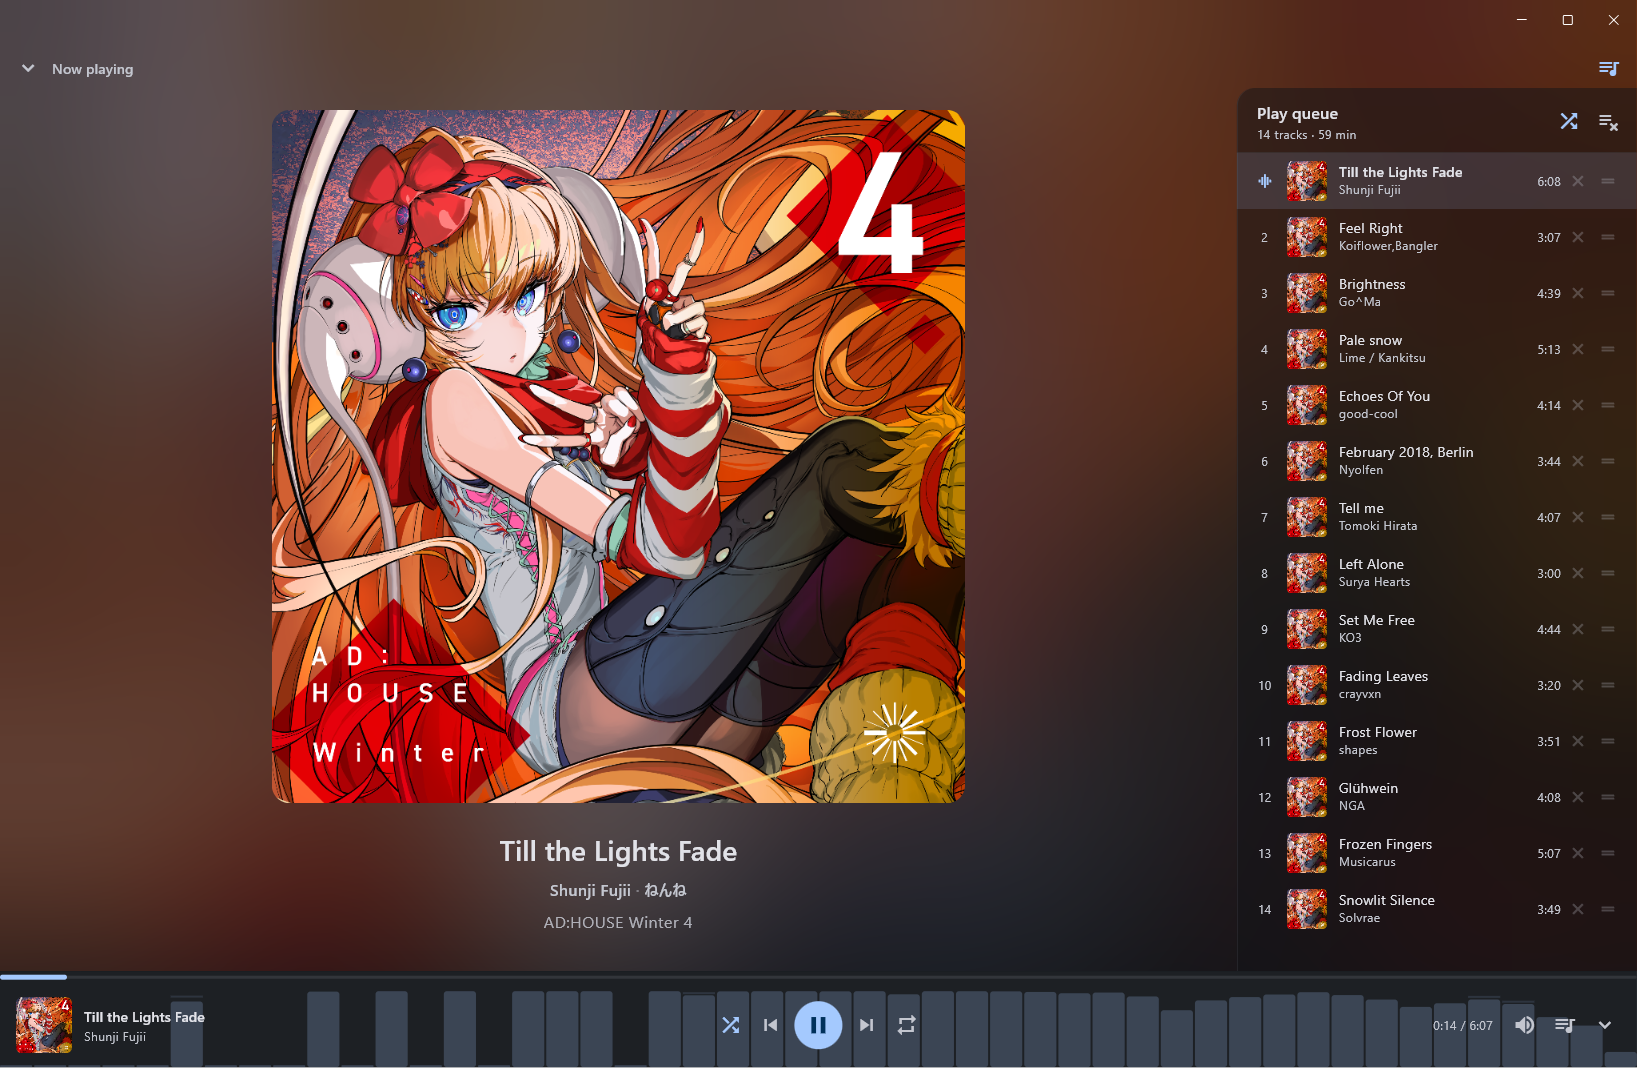
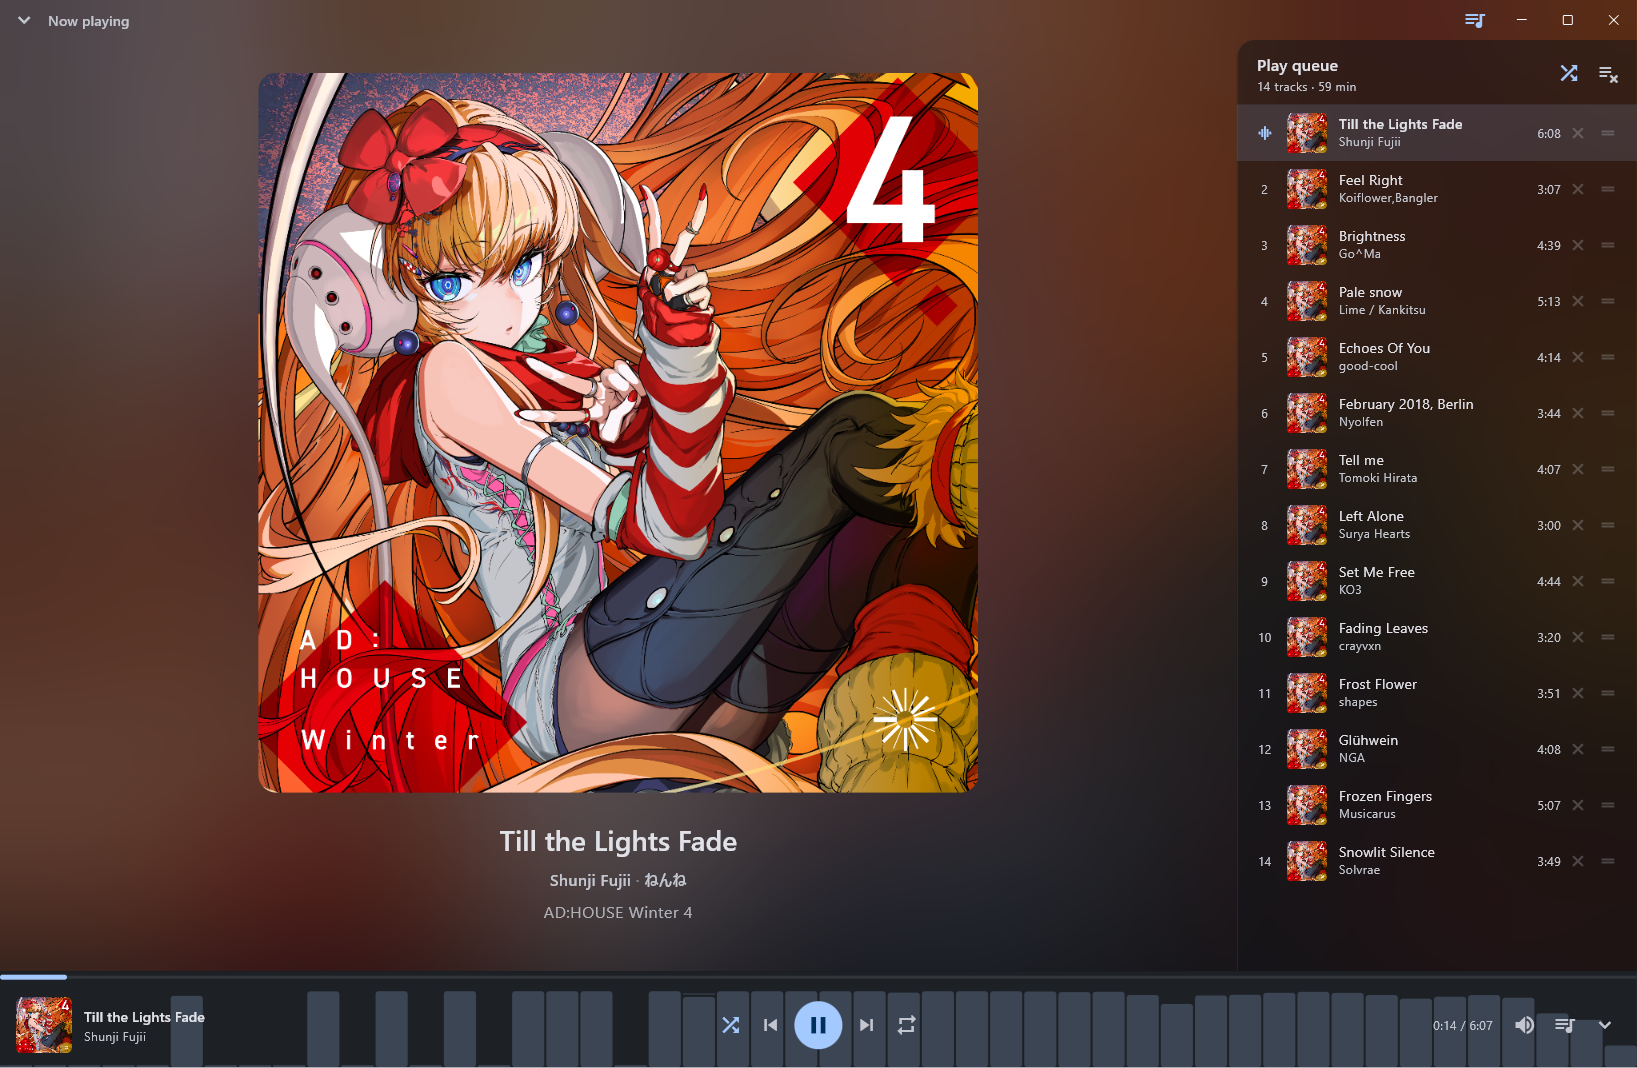
refactor(ui): the shade's controls move into the title bar
Two strips of controls were stacked at the top of the window: ours, with
minimise/maximise/close, and the shade's own header directly beneath it
with a close chevron, the words "Now playing", and the queue toggle. Both
were doing the same job in the same place.

The shade has no header now. Its three controls sit in the caption strip
-- chevron and title at the left, queue toggle beside the window buttons
-- and appear only while the shade is up, fading in with it. The artwork
gains the 48px the second strip was using, and the queue panel's rounded
corner now tucks directly under the caption.

WindowChrome takes `leading` and `trailing` widgets rather than knowing
anything about the player, so the file that owns the window stays about
the window. The strip is rebuilt from the shade's own animation
controller, which is also what fades the controls.

The fade builds nothing below 1% progress rather than parking controls at
zero opacity. An invisible interactive node is the shape of the bug that
crashed this app on the Windows accessibility bridge, and a fade is not
worth reintroducing it for.

209 tests pass, up from 208, including that the controls are inside
WindowChrome, that they exist nowhere else, and that closing from the
strip works. Monitor drag with the shade open and playing: survived, 10
AXTree errors against a floor of 6 -- unchanged by this.

diff --git a/lib/app/shell.dart b/lib/app/shell.dart
@@ -16,6 +16,7 @@ import '../core/debug/screenshotter.dart';
 import '../core/logging/app_log.dart';
 import '../data/db/enums.dart' show ScanTrigger;
 import '../widgets/empty_state.dart';
+import '../widgets/time_text.dart';
 import 'providers.dart';
 import 'window_chrome.dart';
 
@@ -328,7 +329,15 @@ class _AppShellState extends ConsumerState<AppShell>
                   top: 0,
                   left: 0,
                   right: 0,
-                  child: const WindowChrome(),
+                  // Rebuilt as the shade animates, because the shade's own
+                  // controls live in this strip now.
+                  child: AnimatedBuilder(
+                    animation: _shade,
+                    builder: (context, _) => WindowChrome(
+                      leading: _shadeLeading(),
+                      trailing: _shadeTrailing(),
+                    ),
+                  ),
                 ),
               ],
             ),
@@ -384,6 +393,73 @@ class _AppShellState extends ConsumerState<AppShell>
     ],
   );
 
+  /// Fade for the shade's controls in the caption strip.
+  ///
+  /// Null below the threshold, so the controls are absent rather than sitting
+  /// there at zero opacity. An invisible interactive node is the shape of bug
+  /// that crashed this app on the Windows accessibility bridge, and it is not
+  /// worth reintroducing for a fade.
+  double? _shadeControlsOpacity() {
+    if (_shade.value <= 0.01) return null;
+    return Curves.easeOut.transform((_shade.value / 0.6).clamp(0.0, 1.0));
+  }
+
+  /// The shade's close button and title, for the caption strip.
+  Widget? _shadeLeading() {
+    final opacity = _shadeControlsOpacity();
+    if (opacity == null) return null;
+    final theme = Theme.of(context);
+
+    return Opacity(
+      opacity: opacity,
+      child: Row(
+        children: [
+          const SizedBox(width: 4),
+          IconButton(
+            tooltip: 'Close now playing',
+            onPressed: () => _toggleShade(open: false),
+            icon: const Icon(Icons.keyboard_arrow_down),
+          ),
+          const SizedBox(width: 4),
+          Text(
+            'Now playing',
+            style: theme.textTheme.titleSmall?.copyWith(
+              color: theme.colorScheme.onSurfaceVariant,
+            ),
+          ),
+          const SizedBox(width: 8),
+        ],
+      ),
+    );
+  }
+
+  /// The shade's queue toggle, for the caption strip.
+  Widget? _shadeTrailing() {
+    final opacity = _shadeControlsOpacity();
+    if (opacity == null) return null;
+    final queueVisible = ref.watch(queuePaneVisibleProvider);
+    final queueLength = ref.watch(playerProvider.select((s) => s.queue.length));
+
+    return Opacity(
+      opacity: opacity,
+      child: Padding(
+        padding: const EdgeInsets.only(right: 4),
+        child: IconButton(
+          // The count lives in the tooltip rather than a badge: a permanent
+          // red dot on a control that is not a notification reads as an alert
+          // about nothing.
+          tooltip: queueVisible
+              ? 'Hide the queue'
+              : 'Show the queue (${pluralize(queueLength, 'track')})',
+          isSelected: queueVisible,
+          onPressed: () =>
+              ref.read(queuePaneVisibleProvider.notifier).toggle(),
+          icon: const Icon(Icons.queue_music),
+        ),
+      ),
+    );
+  }
+
   /// The now-playing shade, drawn up from the bottom edge.
   ///
   /// Built only while it is showing, so the view's providers subscribe to
@@ -418,7 +494,6 @@ class _AppShellState extends ConsumerState<AppShell>
                     topInset: WindowChrome.height,
                     onOpenArtist: _openArtist,
                     onOpenAlbum: _openAlbum,
-                    onClose: () => _toggleShade(open: false),
                   ),
                 ),
               ),

diff --git a/lib/features/player/now_playing_view.dart b/lib/features/player/now_playing_view.dart
@@ -17,27 +17,27 @@ import '../../widgets/time_text.dart';
 /// That also means it deliberately repeats none of the transport controls --
 /// they are a few pixels below, in the bar that opened this -- so the freed
 /// space goes to the artwork instead.
+///
+/// It has no header of its own either. Closing it, naming it and showing or
+/// hiding the queue all live in the window's caption strip, which is already at
+/// the top of the screen and already where the window's own controls are. One
+/// strip of controls, not two stacked on each other.
 class NowPlayingView extends ConsumerWidget {
   const NowPlayingView({
     super.key,
     this.topInset = 0,
     this.onOpenArtist,
     this.onOpenAlbum,
-    this.onClose,
   });
 
   /// Space to leave clear at the top for the window's caption strip.
   ///
-  /// The shade covers the whole window, and the caption strip is drawn over it,
-  /// so without this the shade's own controls would sit under the window
-  /// buttons.
+  /// The shade covers the whole window and the strip is drawn over it, so
+  /// without this the artwork would start underneath the window buttons.
   final double topInset;
 
   final void Function(int artistId)? onOpenArtist;
   final void Function(int albumId)? onOpenAlbum;
-
-  /// Closes the shade.
-  final VoidCallback? onClose;
 
   /// Below this width the artwork and the queue are shown one at a time.
   ///
@@ -71,13 +71,6 @@ class NowPlayingView extends ConsumerWidget {
           return Column(
             children: [
               SizedBox(height: topInset),
-              _ShadeBar(
-                queueVisible: queueVisible,
-                queueLength: player.queue.length,
-                onToggleQueue: () =>
-                    ref.read(queuePaneVisibleProvider.notifier).toggle(),
-                onClose: onClose,
-              ),
               Expanded(
                 child: twoPane
                     // Side by side: the queue slides in from the right edge
@@ -111,58 +104,6 @@ class NowPlayingView extends ConsumerWidget {
             ],
           );
         },
-      ),
-    );
-  }
-}
-
-/// The shade's own thin header: close on the left, queue toggle on the right.
-class _ShadeBar extends StatelessWidget {
-  const _ShadeBar({
-    required this.queueVisible,
-    required this.queueLength,
-    required this.onToggleQueue,
-    this.onClose,
-  });
-
-  final bool queueVisible;
-  final int queueLength;
-  final VoidCallback onToggleQueue;
-  final VoidCallback? onClose;
-
-  @override
-  Widget build(BuildContext context) {
-    final theme = Theme.of(context);
-
-    return Padding(
-      padding: const EdgeInsets.fromLTRB(8, 8, 8, 0),
-      child: Row(
-        children: [
-          IconButton(
-            tooltip: 'Close now playing',
-            onPressed: onClose,
-            icon: const Icon(Icons.keyboard_arrow_down),
-          ),
-          const SizedBox(width: 4),
-          Text(
-            'Now playing',
-            style: theme.textTheme.titleSmall?.copyWith(
-              color: theme.colorScheme.onSurfaceVariant,
-            ),
-          ),
-          const Spacer(),
-          IconButton(
-            // The count lives in the tooltip rather than a badge: a permanent
-            // red dot on a control that is not a notification reads as an
-            // alert about nothing.
-            tooltip: queueVisible
-                ? 'Hide the queue'
-                : 'Show the queue (${pluralize(queueLength, 'track')})',
-            isSelected: queueVisible,
-            onPressed: onToggleQueue,
-            icon: const Icon(Icons.queue_music),
-          ),
-        ],
       ),
     );
   }

diff --git a/lib/app/window_chrome.dart b/lib/app/window_chrome.dart
@@ -14,7 +14,7 @@ import 'package:window_manager/window_manager.dart';
 /// the now-playing shade too: a window you cannot move or close because a panel
 /// is open would be a poor trade for the extra immersion.
 class WindowChrome extends StatelessWidget {
-  const WindowChrome({super.key});
+  const WindowChrome({super.key, this.leading, this.trailing});
 
   /// Height of the strip, in logical pixels.
   ///
@@ -22,20 +22,33 @@ class WindowChrome extends StatelessWidget {
   /// where the muscle memory expects them.
   static const height = 40.0;
 
+  /// Controls placed at the left end of the strip, before the drag area.
+  ///
+  /// The strip is the only chrome the window has, so anything that belongs to
+  /// the window as a whole rather than to a view belongs here. Kept as opaque
+  /// widgets so this file stays about the window and knows nothing about the
+  /// player.
+  final Widget? leading;
+
+  /// Controls placed after the drag area, before the window buttons.
+  final Widget? trailing;
+
   @override
   Widget build(BuildContext context) {
     return SizedBox(
       height: height,
       child: Row(
-        children: const [
+        children: [
+          ?leading,
           // The strip runs the full width, over the rail's top as well. The
           // rail's first destination starts below it, so nothing interactive is
           // covered, and in exchange the entire top edge of the window drags --
           // which is what the edge of a window is expected to do. Reserving a
           // gap for the rail would mean hard-coding its width, and a rail with
           // labels is wider than its minWidth suggests.
-          Expanded(child: _DragStrip()),
-          _WindowButtons(),
+          const Expanded(child: _DragStrip()),
+          ?trailing,
+          const _WindowButtons(),
         ],
       ),
     );

diff --git a/test/ui/app_render_test.dart b/test/ui/app_render_test.dart
@@ -853,6 +853,38 @@ void main() {
       }
     });
 
+    testWidgets('the shade puts its own controls in the caption strip',
+        (tester) async {
+      // One strip of controls at the top of the window, not two stacked on
+      // each other.
+      await open(tester, app: buildApp(playing: true));
+
+      Finder inChrome(Finder matching) => find.descendant(
+            of: find.byType(WindowChrome),
+            matching: matching,
+          );
+
+      // Closed: the strip carries nothing but the window's own buttons.
+      expect(inChrome(find.text('Now playing')), findsNothing);
+      expect(inChrome(find.byTooltip('Close now playing')), findsNothing);
+
+      await tester.tap(find.byTooltip('Open now playing'));
+      await settle(tester);
+
+      expect(inChrome(find.text('Now playing')), findsOne);
+      expect(inChrome(find.byTooltip('Close now playing')), findsOne);
+      expect(inChrome(find.byTooltip('Hide the queue')), findsOne);
+      // And nowhere else: the shade has no header of its own any more.
+      expect(find.text('Now playing'), findsOne);
+      expect(find.byTooltip('Close now playing'), findsOne);
+
+      // Closing from the strip works.
+      await tester.tap(inChrome(find.byTooltip('Close now playing')));
+      await settle(tester);
+      expect(find.text('Now playing'), findsNothing);
+      expect(tester.takeException(), isNull);
+    });
+
     testWidgets('content starts below the caption, not underneath it',
         (tester) async {
       await open(tester);
